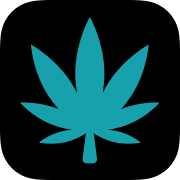
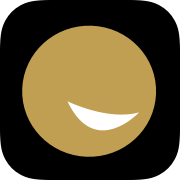
A target you can see

diff --git a/app/[[...slug]]/page.tsx b/app/[[...slug]]/page.tsx
@@ -43,8 +43,8 @@ export default async function Page({ params }: PageProps) {
     }
 
     // Use doc data or fallback to defaults
-    const featuredImage = doc?.frontmatter?.image || "https://live.staticflickr.com/65535/55022177232_15f5a45416_b.jpg";
-    const title = doc?.frontmatter?.title || (slug.length > 0 && !doc ? currentPath : "Welcome to Goldlabel");
+    const featuredImage = doc?.frontmatter?.image || "/jpg/og_light.jpg";
+    const title = doc?.frontmatter?.title || (slug.length > 0 && !doc ? currentPath : "A target you can see");
     const content = doc?.content;
 
     return (
@@ -55,25 +55,17 @@ export default async function Page({ params }: PageProps) {
                         <Image
                             src={featuredImage}
                             alt={doc?.frontmatter?.title || "Goldlabel"}
-                            width={1024}
-                            height={683}
+                            width={1200}
+                            height={630}
                             priority
                             style={{ objectFit: 'cover' }}
                         />
                     </div>
                     <h1>{title}</h1>
+                    <h2>{doc?.frontmatter?.description || "A premium content platform designed for clarity and precision in digital publishing"}</h2>
                     {doc?.frontmatter?.description && (
                         <p className="description">{doc.frontmatter.description}</p>
                     )}
-                    <pre style={{ padding: '1rem', overflow: 'auto' }}>
-                        {JSON.stringify({
-                            currentSlug: slugString,
-                            docFound: !!doc,
-                            doc: doc,
-                            allDocsCount: allDocs.length,
-                            sampleDoc: allDocs[0]
-                        }, null, 2)}
-                    </pre>
                     {doc && content ? (
                         <div dangerouslySetInnerHTML={{ __html: content }} />
                     ) : (
@@ -119,7 +111,7 @@ export default async function Page({ params }: PageProps) {
                     priority
                     style={{ objectFit: 'cover' }}
                 />
-                <figcaption>{doc?.frontmatter?.title || "Goldlabel Content Platform"}</figcaption>
+                <figcaption>{doc?.frontmatter?.title || "Target 2026"}</figcaption>
             </aside>
         </div>
     );

diff --git a/goldlabel/styles.css b/goldlabel/styles.css
@@ -1,26 +1,28 @@
 /* Light theme - default */
 :root {
-  --primary: #17A1AC;
-  --secondary: #1b595dff;
+  --primary: #C09F52;
+  --secondary: #A6823D;
   --background: #fff;
   --paper: #f3f3f3ff;
   --text: #000;
-  --border: #17A1AC;
+  --border: #C09F52;
   --header-height: 80px;
   --mobile-breakpoint: 999px;
 }
 
-/* Dark theme - system preference */
+/* Dark theme - disabled for now, will be configurable later */
+/*
 @media (prefers-color-scheme: dark) {
   :root {
-    --primary: #17A1AC;
-    --secondary: #07c7d5ff;
+    --primary: #C09F52;
+    --secondary: #D4B976;
     --background: #000;
     --paper: #1e1e1eff;
     --text: #fff;
-    --border: #17A1AC;
+    --border: #C09F52;
   }
 }
+*/
 
 * {
   box-sizing: border-box;
@@ -37,22 +39,66 @@ body {
   background: var(--background);
   color: var(--text);
   font-family: -apple-system, BlinkMacSystemFont, 'Segoe UI', Roboto, 'Helvetica Neue', Arial, sans-serif;
-  line-height: 1.6;
+  font-size: 18px;
+  line-height: 1.7;
   display: flex;
   flex-direction: column;
   min-height: 100vh;
 }
 
-/* Heading Styles - Light Weight */
-h1,
-h2,
-h3,
-h4,
-h5,
-h6 {
+/* Heading Styles - Semantic Sizing */
+h1 {
+  font-size: 2.5rem;
   font-weight: 300;
-  margin: 0;
+  margin: 0 0 1rem 0;
   padding: 0;
+  line-height: 1.2;
+}
+
+h2 {
+  font-size: 2rem;
+  font-weight: 300;
+  margin: 0 0 0.875rem 0;
+  padding: 0;
+  line-height: 1.3;
+}
+
+h3 {
+  font-size: 1.75rem;
+  font-weight: 300;
+  margin: 0 0 0.75rem 0;
+  padding: 0;
+  line-height: 1.3;
+}
+
+h4 {
+  font-size: 1.5rem;
+  font-weight: 300;
+  margin: 0 0 0.625rem 0;
+  padding: 0;
+  line-height: 1.4;
+}
+
+h5 {
+  font-size: 1.25rem;
+  font-weight: 300;
+  margin: 0 0 0.5rem 0;
+  padding: 0;
+  line-height: 1.4;
+}
+
+h6 {
+  font-size: 1rem;
+  font-weight: 300;
+  margin: 0 0 0.5rem 0;
+  padding: 0;
+  line-height: 1.5;
+}
+
+p {
+  font-size: 1.125rem;
+  margin: 0 0 1.25rem 0;
+  line-height: 1.7;
 }
 
 a h1,
@@ -332,8 +378,6 @@ blockquote {
 .page-content article {
   background: var(--background);
   padding: 0 2rem 2rem 2rem;
-  font-size: 1.125rem;
-  line-height: 1.75;
 }
 
 .mobile-featured-image {

diff --git a/goldlabel/lib/seed-firestore.ts b/goldlabel/lib/seed-firestore.ts
@@ -119,7 +119,7 @@ const sampleDocs = [
       <h3>Contact Information</h3>
       <p><strong>Email:</strong> hello@listingslab.com</p>
       <p><strong>Location:</strong> Remote / Global</p>
-      <h3>Follow Us</h3>
+      <h3>See us socially</h3>
       <p>Stay connected on social media for updates and news.</p>
       <p>We typically respond within 24 hours during business days.</p>
     `,

diff --git a/goldlabel/components/Footer.tsx b/goldlabel/components/Footer.tsx
@@ -56,7 +56,7 @@ export default function Footer() {
                     ))}
 
                     <div className="footer-section">
-                        <h3>Follow Us</h3>
+                        <h3>See us socially</h3>
                         <div className="social-links">
                             {socialLinks.map((social) => (
                                 <a
